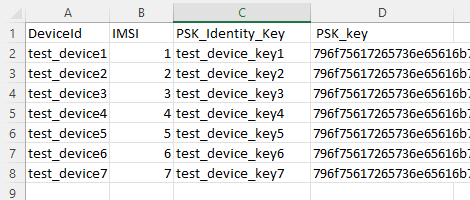
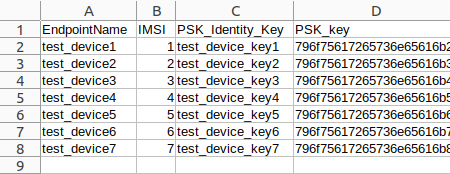
Update CSV import to use EndpointName

diff --git a/docs/Cloud_integrations/Azure_IoT/Azure_IoT_Central/Device_operations/Synchronize_devices_with_Azure_IoT_Central.md b/docs/Cloud_integrations/Azure_IoT/Azure_IoT_Central/Device_operations/Synchronize_devices_with_Azure_IoT_Central.md
@@ -35,7 +35,7 @@ In the import process, you will need a list of devices that you want to import a
         ![Importing devices](images/import_view.png "Importing devices")
         - If you already have a CSV file with devices for import, click **Browse** and select the file.
         - If you don't have a CSV with devices for import yet, click the **device template** link to download an empty template that you can fill in with your data:
-            - **DeviceId**	- provide your device ID. For LwM2M-enabled devices, device ID usually equals the endpoint name.
+            - **EndpointName** - provide EndpointName of your device.
             - **IMSI** - provide a random but unique number for each entry (or provide IMSI number if your device has one).
               ![CSV device template](images/device_template_csv.png "CSV device template")
             - **PSK_Identity_Key** - provide a unique plain-text PSK identity key used for secure communication between the device and {{ coiote_short_name }}.

diff --git a/docs/Cloud_integrations/Azure_IoT/Azure_IoT_Hub/Device_operations/Synchronize_devices_with_Azure_IoT_Hub.md b/docs/Cloud_integrations/Azure_IoT/Azure_IoT_Hub/Device_operations/Synchronize_devices_with_Azure_IoT_Hub.md
@@ -37,7 +37,7 @@ In the import process, you will need a list of devices that you want to import a
         ![Importing devices](images/import_view.png "Importing devices")
         - If you already have a CSV file with devices for import, click **Browse** and select the file.
         - If you don't have a CSV with devices for import yet, click the **device template** link to download an empty template that you can fill in with your data:
-            - **DeviceId**	- provide your device ID. For LwM2M-enabled devices, device ID usually equals the endpoint name.
+            - **EndpointName** - provide EndpointName of your device.
             - **IMSI** - provide a random but unique number for each entry (or provide IMSI number if your device has one).
               ![CSV device template](images/device_template_csv.png "CSV device template")
             - **PSK_Identity_Key** - provide a unique plain-text PSK identity key used for secure communication between the device and {{ coiote_short_name }}.
